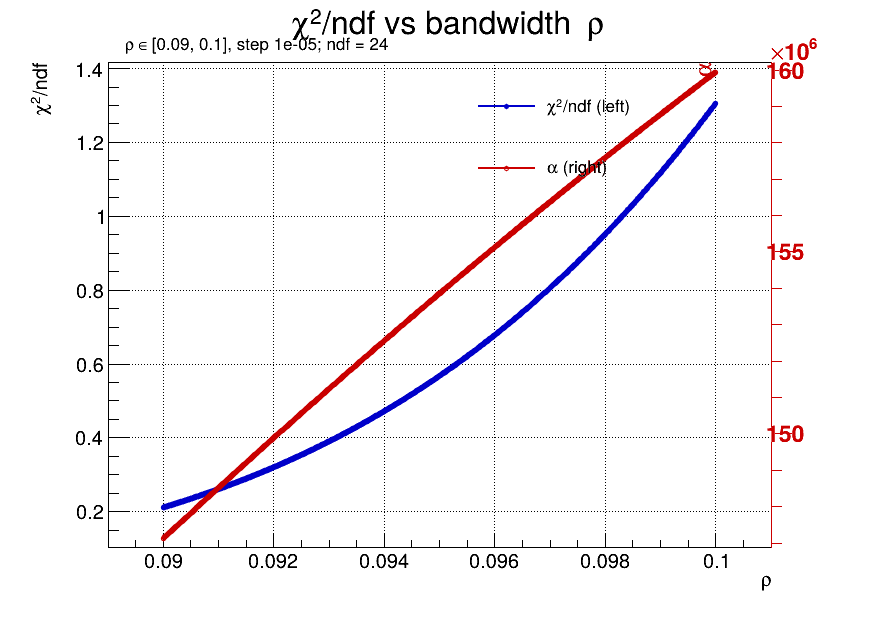
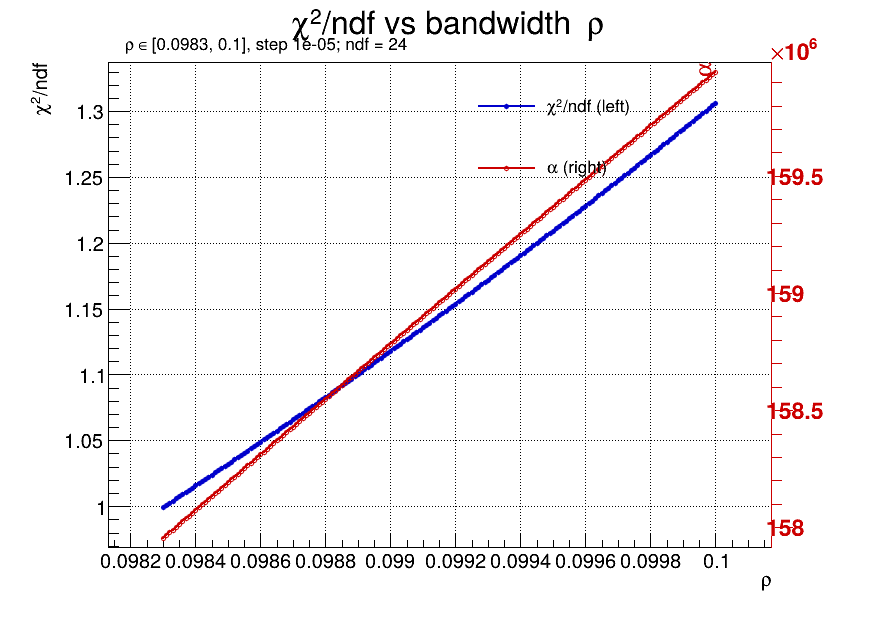
Adding ratio and contribution plots

diff --git a/scripts/plot_weighted_fixed_kde.py b/scripts/plot_weighted_fixed_kde.py
@@ -60,6 +60,56 @@ def _style_template(template: ROOT.TH1) -> None:
   template.SetFillStyle(0)
 
 
+def _make_ratio_hist(data: ROOT.TH1, model: ROOT.TH1) -> ROOT.TH1:
+  ratio = data.Clone("ratio_data_over_model")
+  ratio.SetDirectory(0)
+  if ratio.GetSumw2N() == 0:
+    ratio.Sumw2()
+  ratio.Divide(model)
+  ratio.SetTitle("")
+  ratio.SetMarkerSize(data.GetMarkerSize())
+  ratio.SetMarkerStyle(data.GetMarkerStyle())
+  ratio.SetMarkerColor(data.GetMarkerColor())
+  ratio.SetLineColor(data.GetLineColor())
+  ratio.SetLineWidth(data.GetLineWidth())
+  ratio.GetYaxis().SetTitle("Data / Model")
+  ratio.GetYaxis().SetTitleOffset(.7)
+  ratio.GetYaxis().SetTitleSize(0.07)
+  ratio.GetYaxis().SetLabelSize(0.07)
+  ratio.GetYaxis().SetNdivisions(505)
+  ratio.GetXaxis().SetTitle(data.GetXaxis().GetTitle())
+  ratio.GetXaxis().SetLabelSize(0.07)
+  ratio.GetXaxis().SetTitleSize(0.07)
+  return ratio
+
+
+def _ratio_y_range(ratio: ROOT.TH1, pad_frac: float = 0.15) -> None:
+  ymax = 1.0
+  ymin = 1.0
+  for i in range(1, ratio.GetNbinsX() + 1):
+    val = ratio.GetBinContent(i)
+    err = ratio.GetBinError(i)
+    if err <= 0 and val == 0:
+      continue
+    ymax = max(ymax, val + err)
+    ymin = min(ymin, val - err)
+  span = max(ymax - ymin, 0.2)
+  margin = pad_frac * span
+  ratio.GetYaxis().SetRangeUser(ymin - margin, ymax + margin)
+
+
+def _draw_unity_line(hist: ROOT.TH1) -> None:
+  line = ROOT.TLine(
+    hist.GetXaxis().GetXmin(),
+    1.0,
+    hist.GetXaxis().GetXmax(),
+    1.0,
+  )
+  line.SetLineStyle(2)
+  line.SetLineColor(ROOT.kBlack)
+  line.Draw()
+
+
 def plot_fit(
   target: ROOT.TH1,
   template: ROOT.TH1,
@@ -79,14 +129,33 @@ def plot_fit(
   canvas = ROOT.TCanvas("c", "Weighted adaptive KDE fit", 1400, 600)
   canvas.Divide(2, 1)
 
+  ratio = _make_ratio_hist(target, template)
+
   canvas.cd(1)
-  pad_overlay = canvas.GetPad(1)
-  pad_overlay.SetGridy()
-  target.SetTitle("X projection - weighted adaptive KDE")
+  pad_left = canvas.GetPad(1)
+  pad_left.cd()
+
+  pad_main = ROOT.TPad("pad_main", "", 0.0, 0.32, 1.0, 1.0)
+  pad_main.SetBottomMargin(0.02)
+  pad_main.SetLeftMargin(0.12)
+  pad_main.SetGridy()
+  pad_main.Draw()
+
+  pad_ratio = ROOT.TPad("pad_ratio", "", 0.0, 0.0, 1.0, 0.32)
+  pad_ratio.SetTopMargin(0.02)
+  pad_ratio.SetBottomMargin(0.35)
+  pad_ratio.SetLeftMargin(0.12)
+  pad_ratio.SetGridy()
+  pad_ratio.Draw()
+
+  pad_main.cd()
+  target.SetTitle("MM1 X Projection - Weighted Fixed KDE")
+  target.GetXaxis().SetLabelSize(0)
+  target.GetXaxis().SetTitleSize(0)
   target.Draw("E1 HIST")
   template.Draw("HIST C SAME")
 
-  leg = ROOT.TLegend(0.58, 0.72, 0.88, 0.88)
+  leg = ROOT.TLegend(0.7, 0.8, 0.88, 0.88)
   leg.SetBorderSize(0)
   leg.SetFillStyle(0)
   leg.SetTextSize(0.028)
@@ -94,25 +163,30 @@ def plot_fit(
   leg.AddEntry(template, "#alpha#timesKDE(x)", "l")
   leg.Draw()
 
-  latex = ROOT.TLatex()
-  latex.SetNDC()
-  latex.SetTextFont(42)
-  latex.SetTextSize(0.028)
-  latex.DrawLatex(0.58, 0.66, f"#rho={rho:.4g}, #alpha={alpha:.4g}")
-  latex.DrawLatex(0.58, 0.62, f"#chi^{{2}}={chi2:.1f}, #chi^{{2}}/ndf={rchi2:.1f}")
+  pad_ratio.cd()
+  _ratio_y_range(ratio)
+  ratio.Draw("E1")
+  _draw_unity_line(ratio)
 
   canvas.cd(2)
   pad_kde = canvas.GetPad(2)
   pad_kde.SetGridy()
-  template.SetTitle("KDE template")
+  template.SetTitle("Weighted Fixed KDE")
   template.Draw("HIST C")
 
-  leg_kde = ROOT.TLegend(0.62, 0.82, 0.88, 0.88)
+  leg_kde = ROOT.TLegend(0.4, 0.6, 0.88, 0.88)
   leg_kde.SetBorderSize(0)
   leg_kde.SetFillStyle(0)
   leg_kde.SetTextSize(0.028)
   leg_kde.AddEntry(template, "#alpha#timesKDE(x)", "l")
   leg_kde.Draw()
+
+  latex = ROOT.TLatex()
+  latex.SetNDC()
+  latex.SetTextFont(42)
+  latex.SetTextSize(0.028)
+  latex.DrawLatex(0.4, 0.66, f"#rho={rho:.5g}, #alpha={alpha:.5g}")
+  latex.DrawLatex(0.4, 0.62, f"#chi^{{2}}={chi2:.3f}, #chi^{{2}}/ndf={rchi2:.3f}")
 
   canvas.Update()
   canvas.SaveAs(outfile)

diff --git a/scripts/weighted_fixed_kde.py b/scripts/weighted_fixed_kde.py
@@ -33,11 +33,17 @@ CHI2_SCAN_PNG = os.path.join(
 
 TKDE_OPTIONS = "KernelType:Gaussian;Iteration:Fixed;Mirror:noMirror"
 
-RHO_SCAN_MIN = 0.09
+NPAR = 1  # rho; alpha profiled (linear WLS)
+
+RHO_SCAN_MIN = 0.0983
 RHO_SCAN_MAX = 0.1
 RHO_SCAN_STEP = 0.00001
 
-NPAR = 1  # rho; alpha profiled (linear WLS)
+# optimal rho for chi2/ndf = 1
+# mm1x: 0.0983   y: 0.10486 or 0.10487
+# mm2x: 
+
+
 
 
 @dataclass
@@ -194,6 +200,20 @@ def count_chi2_bins(hist: ROOT.TH1) -> int:
   return n
 
 
+def chi2_contributions(hist: ROOT.TH1, kde_func: ROOT.TF1, alpha: float) -> list:
+  """Makes a list of the contributions to the chi2 error"""
+  contributions = []
+  for i in range(1, count_chi2_bins(hist)):
+    err = hist.GetBinError(i)
+    if err <= 0:
+      continue
+    observed = hist.GetBinContent(i)
+    expected = alpha * kde_func.Eval(hist.GetBinCenter(i))
+    diff = observed - expected
+    contributions[i] = (diff * diff) / (err * err)
+  return contributions
+
+
 def degrees_of_freedom(nbins: int, npar: int = NPAR) -> int:
   """ndf = nbins - nparams."""
   return max(nbins - npar, 1)
@@ -284,12 +304,21 @@ def kde_template_histogram(
   ref_hist: ROOT.TH1,
   alpha: float,
   name: str = "kde_template",
+  x_axis_title: str = PROJECTION_AXIS
 ) -> ROOT.TH1D:
   """Binned template: alpha * KDE(x) at ref_hist bin centers."""
   nb = ref_hist.GetNbinsX()
   xlo = ref_hist.GetXaxis().GetXmin()
   xhi = ref_hist.GetXaxis().GetXmax()
-  out = ROOT.TH1D(name, "#alpha#timesKDE(x);X;Expected", nb, xlo, xhi)
+
+  if x_axis_title.lower() == 'x':
+    x_axis_title = 'x [cm]'
+  elif x_axis_title.lower() == 'y':
+    x_axis_title = 'y [cm]'
+  else:
+    x_axis_title = 'X'
+  
+  out = ROOT.TH1D(name, f"#alpha#timesKDE(x);{x_axis_title};Entries", nb, xlo, xhi)
   out.SetDirectory(0)
   for i in range(1, nb + 1):
     x = ref_hist.GetBinCenter(i)

diff --git a/scripts/nominal_profile_2d.py b/scripts/nominal_profile_2d.py
@@ -2,7 +2,7 @@ import ROOT
 ROOT.gErrorIgnoreLevel = ROOT.kWarning  # or kError to hide warnings too
 
 
-nominal_file = ROOT.TFile.Open("/Users/johnculbertson/Documents/Personal-UTKL/root-test-files/nominal.root", "READ")
+nominal_file = ROOT.TFile.Open("/Users/johnculbertson/Documents/Personal-UTKL/root_files/nominal.root", "READ")
 ## three TH2D named nominalxyposMM1, 2, 3
 
 mm1 = nominal_file.Get("nominalxyposMM1")